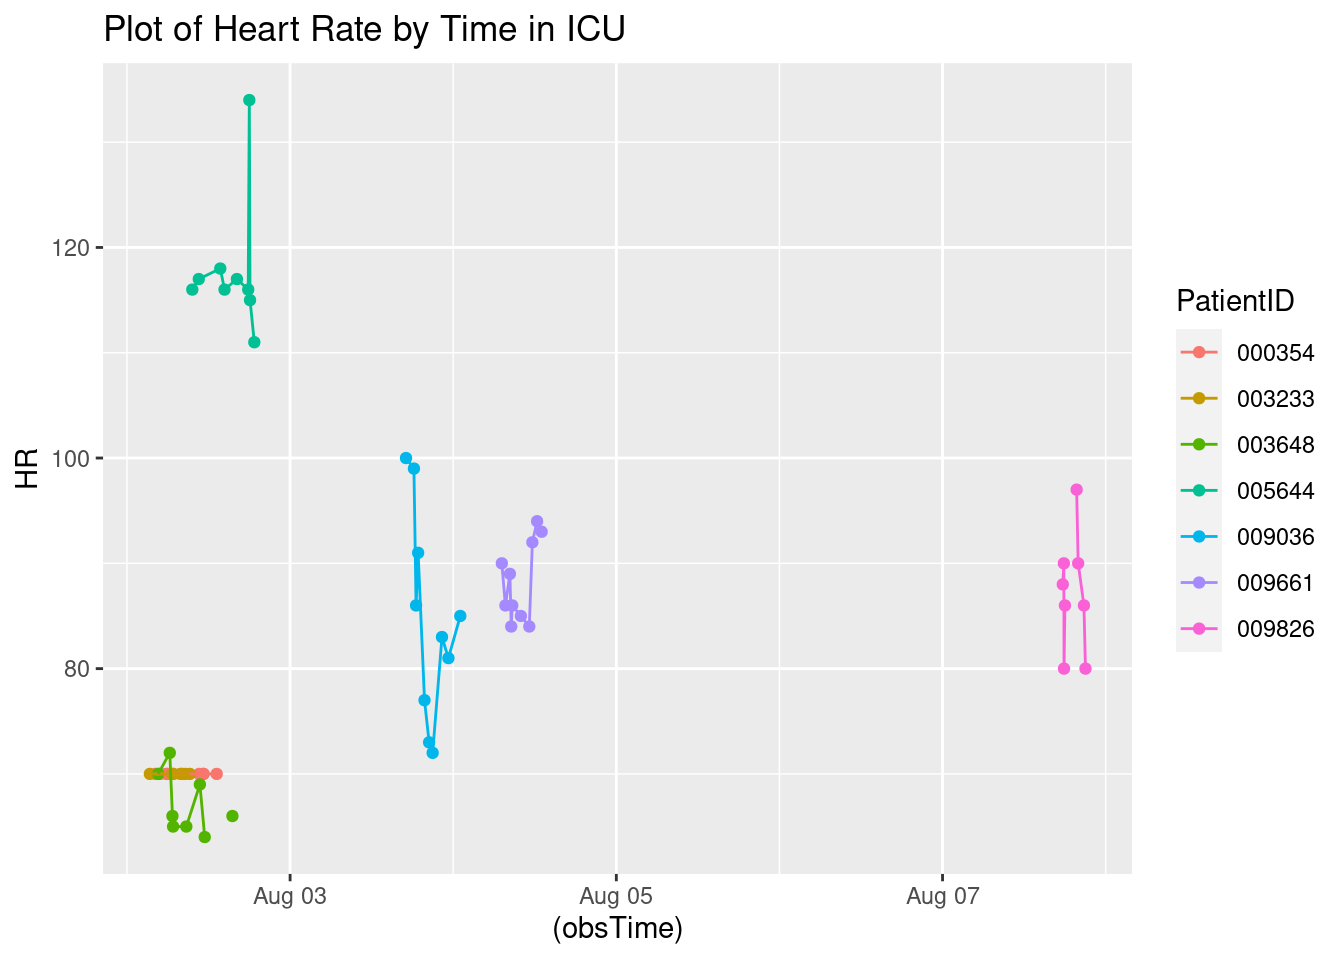
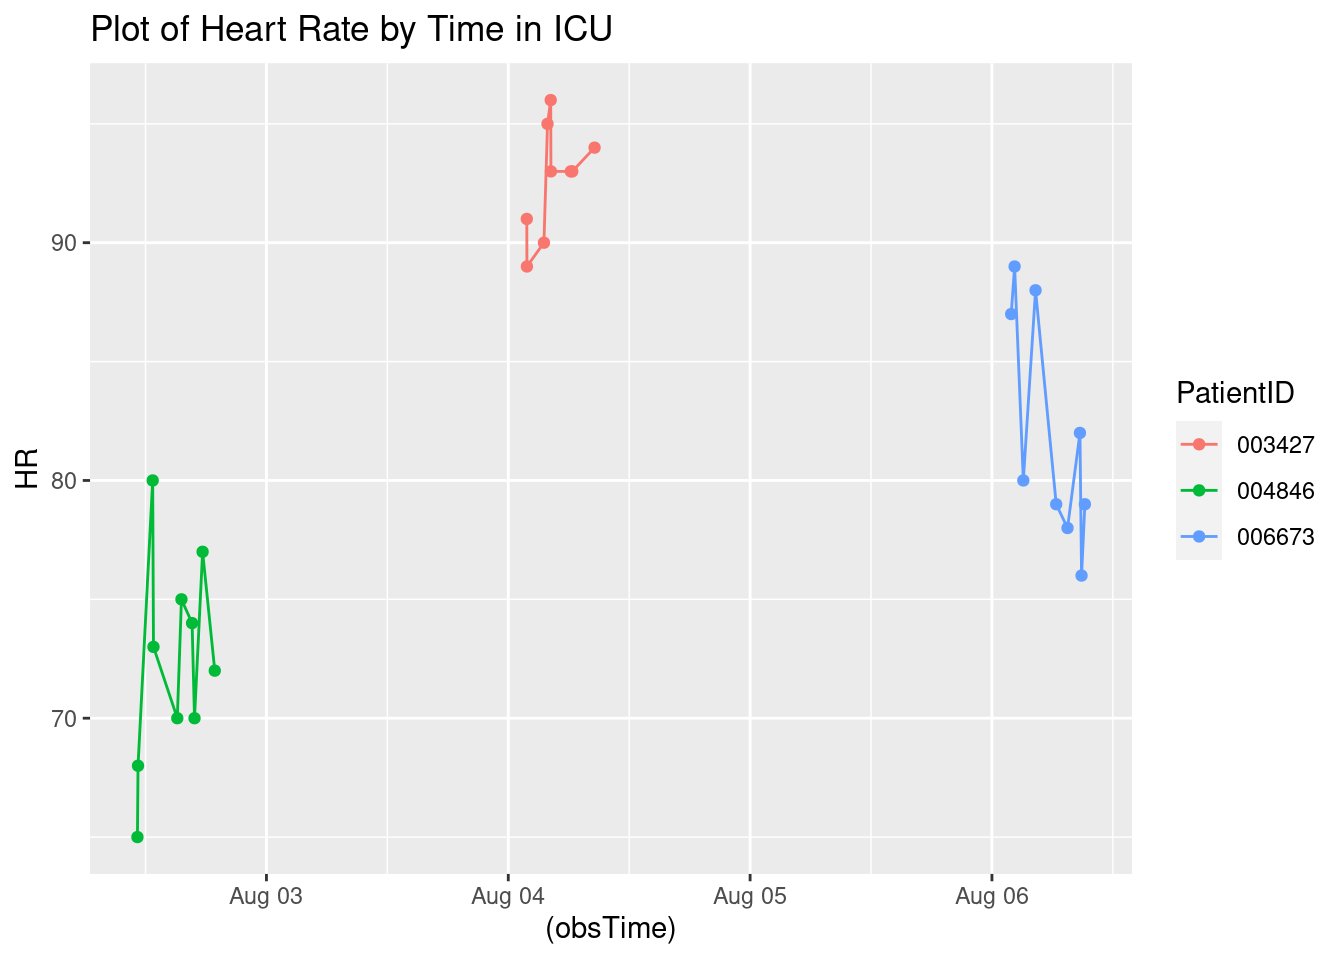
Updated report

diff --git a/A7.html b/A7.html
@@ -114,7 +114,7 @@ pre > code.sourceCode > span > a:first-child::before { text-decoration: underlin
 </div>
 <div class="sourceCode cell-code" id="cb4"><pre class="sourceCode r code-with-copy"><code class="sourceCode r"><span id="cb4-1"><a href="#cb4-1" aria-hidden="true" tabindex="-1"></a><span class="fu">toc</span>()</span></code><button title="Copy to Clipboard" class="code-copy-button"><i class="bi"></i></button></pre></div>
 <div class="cell-output cell-output-stdout">
-<pre><code>5.262 sec elapsed</code></pre>
+<pre><code>5.354 sec elapsed</code></pre>
 </div>
 <div class="sourceCode cell-code" id="cb6"><pre class="sourceCode r code-with-copy"><code class="sourceCode r"><span id="cb6-1"><a href="#cb6-1" aria-hidden="true" tabindex="-1"></a><span class="fu">tic</span>()</span>
 <span id="cb6-2"><a href="#cb6-2" aria-hidden="true" tabindex="-1"></a>test1<span class="ot">=</span><span class="fu">makeSepsisDataset</span>(<span class="at">n=</span><span class="dv">50</span>,<span class="at">read_fn =</span> <span class="st">"read_delim"</span>)</span>
@@ -124,7 +124,7 @@ pre > code.sourceCode > span > a:first-child::before { text-decoration: underlin
 </div>
 <div class="sourceCode cell-code" id="cb8"><pre class="sourceCode r code-with-copy"><code class="sourceCode r"><span id="cb8-1"><a href="#cb8-1" aria-hidden="true" tabindex="-1"></a><span class="fu">toc</span>()</span></code><button title="Copy to Clipboard" class="code-copy-button"><i class="bi"></i></button></pre></div>
 <div class="cell-output cell-output-stdout">
-<pre><code>20.391 sec elapsed</code></pre>
+<pre><code>20.539 sec elapsed</code></pre>
 </div>
 <div class="sourceCode cell-code" id="cb10"><pre class="sourceCode r code-with-copy"><code class="sourceCode r"><span id="cb10-1"><a href="#cb10-1" aria-hidden="true" tabindex="-1"></a><span class="co"># n=100</span></span>
 <span id="cb10-2"><a href="#cb10-2" aria-hidden="true" tabindex="-1"></a><span class="fu">tic</span>()</span>
@@ -135,7 +135,7 @@ pre > code.sourceCode > span > a:first-child::before { text-decoration: underlin
 </div>
 <div class="sourceCode cell-code" id="cb12"><pre class="sourceCode r code-with-copy"><code class="sourceCode r"><span id="cb12-1"><a href="#cb12-1" aria-hidden="true" tabindex="-1"></a><span class="fu">toc</span>()</span></code><button title="Copy to Clipboard" class="code-copy-button"><i class="bi"></i></button></pre></div>
 <div class="cell-output cell-output-stdout">
-<pre><code>9.429 sec elapsed</code></pre>
+<pre><code>9.634 sec elapsed</code></pre>
 </div>
 <div class="sourceCode cell-code" id="cb14"><pre class="sourceCode r code-with-copy"><code class="sourceCode r"><span id="cb14-1"><a href="#cb14-1" aria-hidden="true" tabindex="-1"></a><span class="fu">tic</span>()</span>
 <span id="cb14-2"><a href="#cb14-2" aria-hidden="true" tabindex="-1"></a>test1<span class="ot">=</span><span class="fu">makeSepsisDataset</span>(<span class="at">n=</span><span class="dv">100</span>,<span class="at">read_fn =</span> <span class="st">"read_delim"</span>)</span>
@@ -145,7 +145,7 @@ pre > code.sourceCode > span > a:first-child::before { text-decoration: underlin
 </div>
 <div class="sourceCode cell-code" id="cb16"><pre class="sourceCode r code-with-copy"><code class="sourceCode r"><span id="cb16-1"><a href="#cb16-1" aria-hidden="true" tabindex="-1"></a><span class="fu">toc</span>()</span></code><button title="Copy to Clipboard" class="code-copy-button"><i class="bi"></i></button></pre></div>
 <div class="cell-output cell-output-stdout">
-<pre><code>36.108 sec elapsed</code></pre>
+<pre><code>37.285 sec elapsed</code></pre>
 </div>
 <div class="sourceCode cell-code" id="cb18"><pre class="sourceCode r code-with-copy"><code class="sourceCode r"><span id="cb18-1"><a href="#cb18-1" aria-hidden="true" tabindex="-1"></a><span class="co"># n=500</span></span>
 <span id="cb18-2"><a href="#cb18-2" aria-hidden="true" tabindex="-1"></a><span class="fu">tic</span>()</span>
@@ -156,7 +156,7 @@ pre > code.sourceCode > span > a:first-child::before { text-decoration: underlin
 </div>
 <div class="sourceCode cell-code" id="cb20"><pre class="sourceCode r code-with-copy"><code class="sourceCode r"><span id="cb20-1"><a href="#cb20-1" aria-hidden="true" tabindex="-1"></a><span class="fu">toc</span>()</span></code><button title="Copy to Clipboard" class="code-copy-button"><i class="bi"></i></button></pre></div>
 <div class="cell-output cell-output-stdout">
-<pre><code>46.296 sec elapsed</code></pre>
+<pre><code>48.79 sec elapsed</code></pre>
 </div>
 <div class="sourceCode cell-code" id="cb22"><pre class="sourceCode r code-with-copy"><code class="sourceCode r"><span id="cb22-1"><a href="#cb22-1" aria-hidden="true" tabindex="-1"></a><span class="fu">tic</span>()</span>
 <span id="cb22-2"><a href="#cb22-2" aria-hidden="true" tabindex="-1"></a>test1<span class="ot">=</span><span class="fu">makeSepsisDataset</span>(<span class="at">n=</span><span class="dv">500</span>,<span class="at">read_fn =</span> <span class="st">"read_delim"</span>)</span>
@@ -166,7 +166,7 @@ pre > code.sourceCode > span > a:first-child::before { text-decoration: underlin
 </div>
 <div class="sourceCode cell-code" id="cb24"><pre class="sourceCode r code-with-copy"><code class="sourceCode r"><span id="cb24-1"><a href="#cb24-1" aria-hidden="true" tabindex="-1"></a><span class="fu">toc</span>()</span></code><button title="Copy to Clipboard" class="code-copy-button"><i class="bi"></i></button></pre></div>
 <div class="cell-output cell-output-stdout">
-<pre><code>181.038 sec elapsed</code></pre>
+<pre><code>186.342 sec elapsed</code></pre>
 </div>
 </div>
 <p><strong>Task 3</strong></p>
@@ -192,7 +192,7 @@ pre > code.sourceCode > span > a:first-child::before { text-decoration: underlin
 <span id="cb28-4"><a href="#cb28-4" aria-hidden="true" tabindex="-1"></a></span>
 <span id="cb28-5"><a href="#cb28-5" aria-hidden="true" tabindex="-1"></a><span class="fu">Sys.time</span>()</span></code><button title="Copy to Clipboard" class="code-copy-button"><i class="bi"></i></button></pre></div>
 <div class="cell-output cell-output-stdout">
-<pre><code>[1] "2023-08-02 03:21:52 UTC"</code></pre>
+<pre><code>[1] "2023-08-02 04:24:40 UTC"</code></pre>
 </div>
 <div class="sourceCode cell-code" id="cb30"><pre class="sourceCode r code-with-copy"><code class="sourceCode r"><span id="cb30-1"><a href="#cb30-1" aria-hidden="true" tabindex="-1"></a>dfnew <span class="ot">&lt;-</span> df <span class="sc">%&gt;%</span></span>
 <span id="cb30-2"><a href="#cb30-2" aria-hidden="true" tabindex="-1"></a>  <span class="fu">subset</span>(SepsisLabel<span class="sc">==</span><span class="dv">1</span>)</span>
@@ -221,67 +221,31 @@ pre > code.sourceCode > span > a:first-child::before { text-decoration: underlin
 </thead>
 <tbody>
 <tr class="odd">
-<td style="text-align: left;">000354</td>
-<td style="text-align: right;">10</td>
-<td style="text-align: right;">70</td>
+<td style="text-align: left;">003427</td>
+<td style="text-align: right;">53</td>
+<td style="text-align: right;">94</td>
 <td style="text-align: right;">NA</td>
-<td style="text-align: right;">14</td>
+<td style="text-align: right;">19</td>
 <td style="text-align: right;">1</td>
-<td style="text-align: left;">2023-08-02 13:12:02</td>
+<td style="text-align: left;">2023-08-04 08:33:50</td>
 </tr>
 <tr class="even">
-<td style="text-align: left;">003233</td>
-<td style="text-align: right;">6</td>
-<td style="text-align: right;">70</td>
+<td style="text-align: left;">004846</td>
+<td style="text-align: right;">15</td>
+<td style="text-align: right;">72</td>
 <td style="text-align: right;">NA</td>
-<td style="text-align: right;">20</td>
+<td style="text-align: right;">24</td>
 <td style="text-align: right;">1</td>
-<td style="text-align: left;">2023-08-02 09:14:26</td>
+<td style="text-align: left;">2023-08-02 18:52:21</td>
 </tr>
 <tr class="odd">
-<td style="text-align: left;">003648</td>
-<td style="text-align: right;">13</td>
-<td style="text-align: right;">66</td>
-<td style="text-align: right;">36.28</td>
-<td style="text-align: right;">16</td>
-<td style="text-align: right;">1</td>
-<td style="text-align: left;">2023-08-02 15:30:50</td>
-</tr>
-<tr class="even">
-<td style="text-align: left;">005644</td>
-<td style="text-align: right;">16</td>
-<td style="text-align: right;">111</td>
-<td style="text-align: right;">38.00</td>
-<td style="text-align: right;">21</td>
-<td style="text-align: right;">1</td>
-<td style="text-align: left;">2023-08-02 18:44:05</td>
-</tr>
-<tr class="odd">
-<td style="text-align: left;">009036</td>
-<td style="text-align: right;">46</td>
-<td style="text-align: right;">85</td>
+<td style="text-align: left;">006673</td>
+<td style="text-align: right;">101</td>
+<td style="text-align: right;">79</td>
 <td style="text-align: right;">NA</td>
-<td style="text-align: right;">20</td>
+<td style="text-align: right;">23</td>
 <td style="text-align: right;">1</td>
-<td style="text-align: left;">2023-08-04 01:02:34</td>
-</tr>
-<tr class="even">
-<td style="text-align: left;">009661</td>
-<td style="text-align: right;">58</td>
-<td style="text-align: right;">93</td>
-<td style="text-align: right;">NA</td>
-<td style="text-align: right;">21</td>
-<td style="text-align: right;">1</td>
-<td style="text-align: left;">2023-08-04 13:00:41</td>
-</tr>
-<tr class="odd">
-<td style="text-align: left;">009826</td>
-<td style="text-align: right;">139</td>
-<td style="text-align: right;">80</td>
-<td style="text-align: right;">NA</td>
-<td style="text-align: right;">21</td>
-<td style="text-align: right;">1</td>
-<td style="text-align: left;">2023-08-07 21:01:46</td>
+<td style="text-align: left;">2023-08-06 09:13:21</td>
 </tr>
 </tbody>
 </table>
